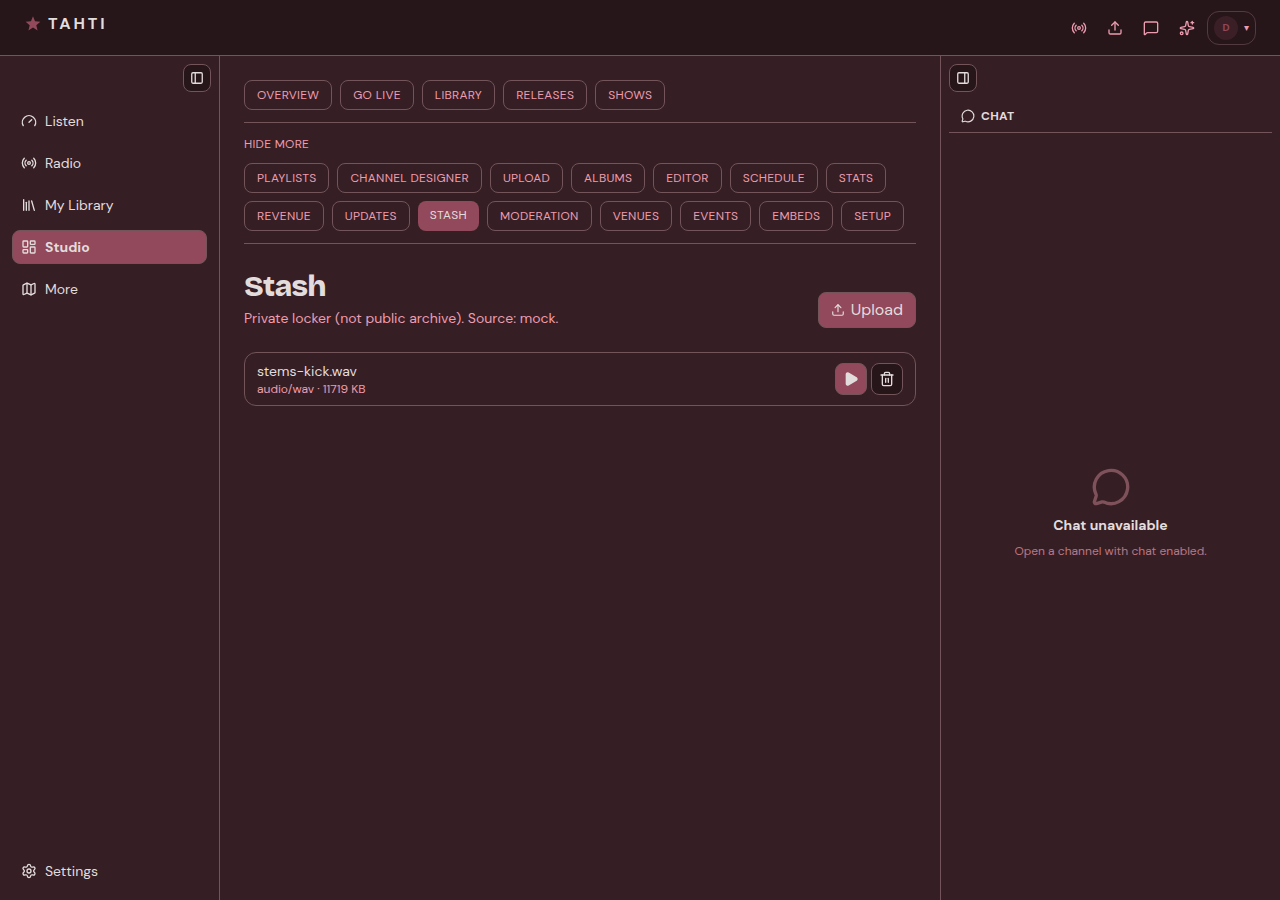
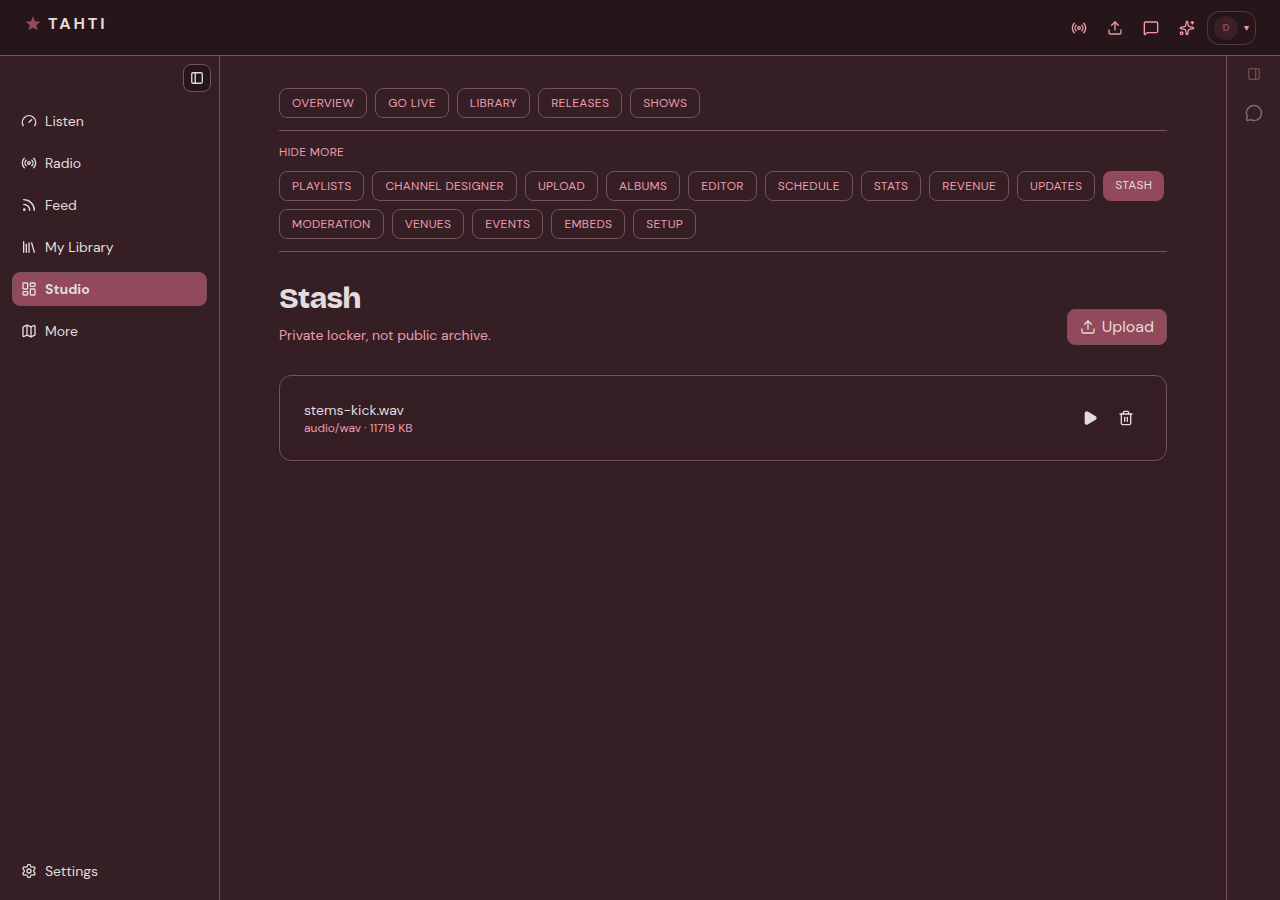
Redesign Studio Stash with the Nuclear panel shell
Same StudioPageHeader/StudioPanel treatment as the rest of studio:
Upload as the single header CTA, divide-y file list, icon-only row
actions. No behavior changes.

Claude-Session: https://claude.ai/code/session_018vrS4tCejeHDXryaE1R75F

diff --git a/packages/tahti-web/src/views/studio/StudioStashView.tsx b/packages/tahti-web/src/views/studio/StudioStashView.tsx
@@ -12,6 +12,7 @@ import {
 } from '../../api/sources';
 import { StudioGate } from '../../components/StudioGate';
 import { StudioNav } from '../../components/StudioNav';
+import { StudioPageHeader, StudioPanel } from '../../components/StudioPanel';
 import { usePlayerStore } from '../../stores/playerStore';
 
 export function StudioStashView() {
@@ -32,118 +33,133 @@ export function StudioStashView() {
 
   return (
     <StudioGate>
-      <div className="mx-auto flex max-w-4xl flex-col gap-6">
+      <div className="mx-auto flex max-w-4xl flex-col gap-6 px-1 py-2">
         <StudioNav current="/studio/stash" />
-        <div className="flex flex-wrap items-end justify-between gap-3">
-          <div>
-            <h1 className="font-display text-3xl font-extrabold tracking-tight">
-              Stash
-            </h1>
-            <p className="text-foreground-secondary mt-1 text-sm">
-              Private locker, not public archive.
-            </p>
-          </div>
-          <div>
-            <input
-              ref={inputRef}
-              type="file"
-              className="hidden"
-              onChange={(e) => {
-                const file = e.target.files?.[0];
-                e.target.value = '';
-                if (!file) {
-                  return;
-                }
-                setBusy(true);
-                setMsg(null);
-                void uploadStashFile(file).then((res) => {
-                  setBusy(false);
-                  if (!res.ok) {
-                    setMsg(res.error);
+        <StudioPageHeader
+          title="Stash"
+          subtitle="Private locker, not public archive."
+          action={
+            <>
+              <input
+                ref={inputRef}
+                type="file"
+                className="hidden"
+                onChange={(e) => {
+                  const file = e.target.files?.[0];
+                  e.target.value = '';
+                  if (!file) {
                     return;
                   }
-                  setMsg(`Uploaded ${file.name}`);
-                  void reload();
-                });
-              }}
-            />
-            <Button
-              size="sm"
-              disabled={busy}
-              onClick={() => inputRef.current?.click()}
-            >
-              <span className="inline-flex items-center gap-1.5">
-                <UploadIcon size={14} />
-                {busy ? 'Uploading…' : 'Upload'}
-              </span>
-            </Button>
-          </div>
-        </div>
-        {msg && <p className="text-sm">{msg}</p>}
-        {files.length === 0 ? (
-          <p className="text-foreground-secondary text-sm">No stash files.</p>
-        ) : (
-          <ul className="flex flex-col gap-2">
-            {files.map((f) => (
-              <li
-                key={f.id}
-                className="border-border flex flex-wrap items-center justify-between gap-2 rounded-lg border px-3 py-2"
+                  setBusy(true);
+                  setMsg(null);
+                  void uploadStashFile(file).then((res) => {
+                    setBusy(false);
+                    if (!res.ok) {
+                      setMsg(res.error);
+                      return;
+                    }
+                    setMsg(`Uploaded ${file.name}`);
+                    void reload();
+                  });
+                }}
+              />
+              <Button
+                size="sm"
+                disabled={busy}
+                onClick={() => inputRef.current?.click()}
+                aria-label="Upload"
+                title="Upload"
               >
-                <div>
-                  <div className="text-sm font-medium">{f.filename}</div>
-                  <div className="text-foreground-secondary text-xs">
-                    {f.contentType ?? 'file'}
-                    {f.sizeBytes != null
-                      ? ` · ${Math.round(f.sizeBytes / 1024)} KB`
-                      : ''}
-                  </div>
-                </div>
-                <div className="flex gap-1">
-                  <Button
-                    size="icon-sm"
-                    title="Play"
-                    aria-label="Play"
-                    onClick={() => {
-                      void fetchStashDownload(f.id).then((r) => {
-                        if (!r.data?.url) {
-                          return;
-                        }
-                        play({
-                          id: `stash:${f.id}`,
-                          kind: 'archive',
-                          title: f.filename,
-                          artist: 'Stash',
-                          streamUrl: r.data.url,
-                          protocol: 'https',
-                          sourceProvider: 'stash',
-                        });
-                      });
-                    }}
-                  >
-                    <PlayIcon size={16} className="fill-current" />
-                  </Button>
-                  <Button
-                    size="icon-sm"
-                    variant="secondary"
-                    title="Delete"
-                    aria-label="Delete"
-                    onClick={() => {
-                      void deleteStashFile(f.id).then((res) => {
-                        if (!res.ok) {
-                          setMsg(res.error);
-                          return;
-                        }
-                        setFiles((prev) => prev.filter((x) => x.id !== f.id));
-                      });
-                    }}
-                  >
-                    <Trash2Icon size={16} />
-                  </Button>
-                </div>
-              </li>
-            ))}
-          </ul>
+                <UploadIcon size={16} aria-hidden className="mr-1.5" />
+                {busy ? 'Uploading…' : 'Upload'}
+              </Button>
+            </>
+          }
+        />
+
+        {msg && (
+          <p className="text-foreground-secondary text-sm" role="status">
+            {msg}
+          </p>
         )}
+
+        <StudioPanel>
+          {files.length === 0 ? (
+            <div className="flex flex-col gap-3 py-4 text-center">
+              <p className="text-foreground-secondary text-sm">
+                No stash files yet.
+              </p>
+              <div>
+                <Button size="sm" onClick={() => inputRef.current?.click()}>
+                  <UploadIcon size={16} aria-hidden className="mr-1.5" />
+                  Upload
+                </Button>
+              </div>
+            </div>
+          ) : (
+            <ul className="divide-border divide-y">
+              {files.map((f) => (
+                <li
+                  key={f.id}
+                  className="flex flex-wrap items-center justify-between gap-2 py-3 text-sm first:pt-0 last:pb-0"
+                >
+                  <div className="min-w-0 flex-1">
+                    <div className="font-medium">{f.filename}</div>
+                    <div className="text-foreground-secondary text-xs">
+                      {f.contentType ?? 'file'}
+                      {f.sizeBytes != null
+                        ? ` · ${Math.round(f.sizeBytes / 1024)} KB`
+                        : ''}
+                    </div>
+                  </div>
+                  <div className="flex gap-1">
+                    <Button
+                      size="icon-sm"
+                      variant="text"
+                      title="Play"
+                      aria-label="Play"
+                      onClick={() => {
+                        void fetchStashDownload(f.id).then((r) => {
+                          if (!r.data?.url) {
+                            return;
+                          }
+                          play({
+                            id: `stash:${f.id}`,
+                            kind: 'archive',
+                            title: f.filename,
+                            artist: 'Stash',
+                            streamUrl: r.data.url,
+                            protocol: 'https',
+                            sourceProvider: 'stash',
+                          });
+                        });
+                      }}
+                    >
+                      <PlayIcon size={16} className="fill-current" />
+                    </Button>
+                    <Button
+                      size="icon-sm"
+                      variant="text"
+                      title="Delete"
+                      aria-label="Delete"
+                      onClick={() => {
+                        void deleteStashFile(f.id).then((res) => {
+                          if (!res.ok) {
+                            setMsg(res.error);
+                            return;
+                          }
+                          setFiles((prev) => prev.filter((x) => x.id !== f.id));
+                        });
+                      }}
+                    >
+                      <Trash2Icon size={16} />
+                    </Button>
+                  </div>
+                </li>
+              ))}
+            </ul>
+          )}
+        </StudioPanel>
       </div>
     </StudioGate>
   );

diff --git a/packages/tahti-web/UI-REDESIGN-WORKLOG.md b/packages/tahti-web/UI-REDESIGN-WORKLOG.md
@@ -31,8 +31,8 @@ Workflow rules: one page at a time; do not advance until user approves.
 | 17 | Show detail / episode review | `/studio/shows/$id`, `…/episodes/$episodeId` | **in-review** | |
 | 18 | Playlists | `/studio/playlists`, `…/$slug` | **in-review** | `docs/redesign-shots/studio-playlists-v1.png` |
 | 19 | Updates / newsletter | `/studio/updates` | **approved** | `docs/redesign-shots/studio-updates-v1.png` |
-| 20 | Revenue / Connect | `/studio/revenue` | **in-review** | `docs/redesign-shots/studio-revenue-v1.png` |
-| 21 | Stash | `/studio/stash` | pending | |
+| 20 | Revenue / Connect | `/studio/revenue` | **approved** | `docs/redesign-shots/studio-revenue-v1.png` |
+| 21 | Stash | `/studio/stash` | **approved** | `docs/redesign-shots/studio-stash-v1.png` |
 | 22 | Sources hub | `/sources` | pending | |
 | 23 | Settings — account | `/settings/account` | pending | |
 | 24 | Settings — artist | `/settings/artist` (etc.) | pending | |
@@ -294,5 +294,21 @@ Port into Nuclear admin shell later. Inventory from prod `admin-nav`:
 
 **Screenshot:** `docs/redesign-shots/studio-revenue-v1.png`
 
-**Status:** in-review — awaiting comment or `approved`.
+**Status:** approved.
+
+### 2026-08-17 — Page 21 Stash v1 (`in-review`)
+
+**Goal:** Same StudioPageHeader/StudioPanel shell as the rest of studio; the page still used the pre-redesign bordered-`<li>` list and a raw flex header.
+
+**Changes:**
+
+- `StudioPageHeader` with Upload as the single header CTA (file input stays hidden, triggered via ref)
+- File list moved into `StudioPanel` with `divide-y` rows, matching Releases/Stash's siblings
+- Empty state gets its own Upload CTA
+- Play/Delete stay icon-only, switched to `variant="text"` for consistency with other row actions
+- No behavior changes — same upload/download/delete handlers
+
+**Screenshot:** `docs/redesign-shots/studio-stash-v1.png`
+
+**Status:** approved.
 
